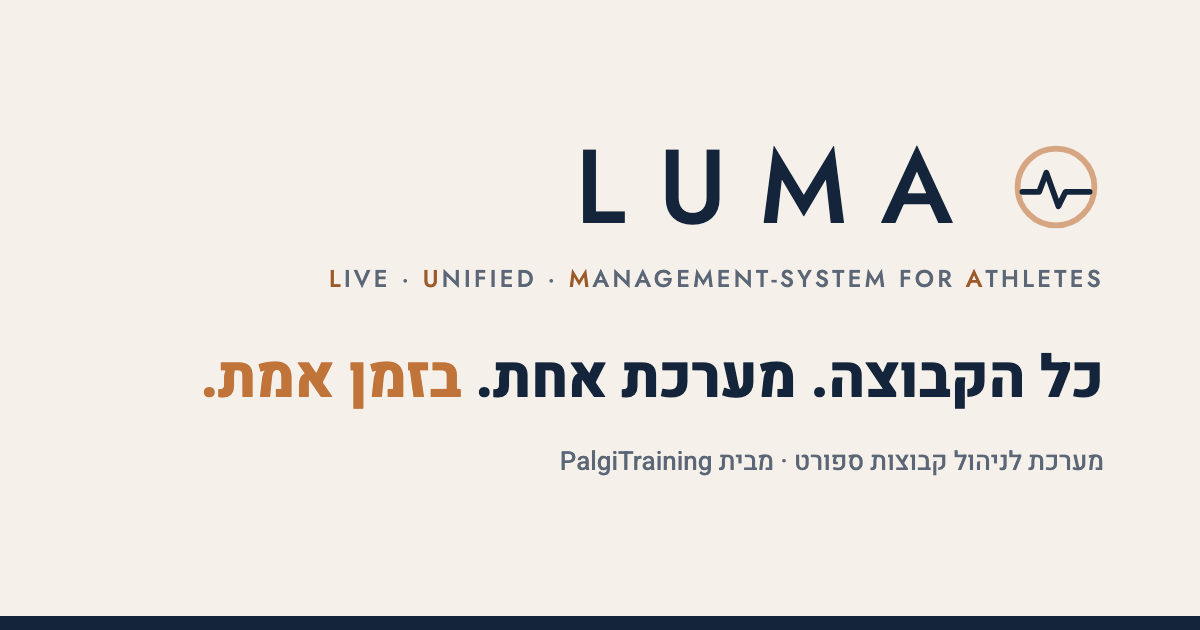
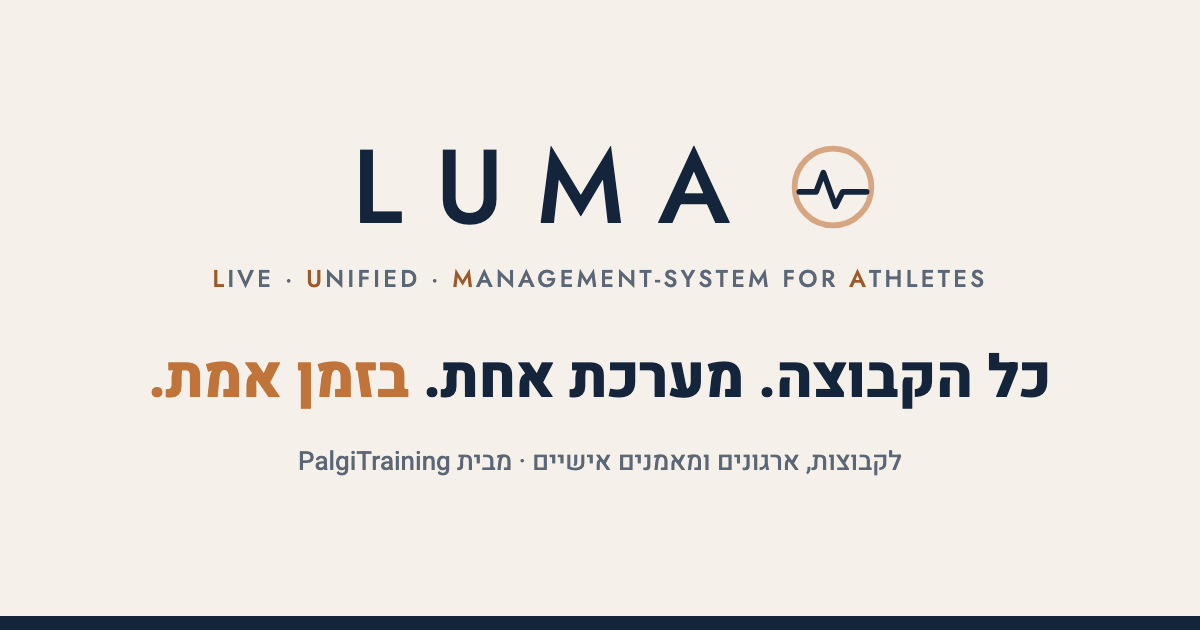
Polish: case stats, live hero feed, motion, nav, WhatsApp button, new share image
- Case study: national-team athletes, 30+ users / 11 staff / full support team, count-up
- Hero phone: a new update slides in every 4s while on screen
- Logo heartbeat draws on load; grid cards reveal in sequence
- Desktop topbar nav links; floating WhatsApp on phones (hidden at the form)
- og.png re-rendered centered, mentions personal coaches; cache-busted URL
- All motion off under prefers-reduced-motion

Claude-Session: https://claude.ai/code/session_01PnJvYenS1ZSLpZmYpDAsFA

diff --git a/style.css b/style.css
@@ -52,6 +52,15 @@ p { margin: 0; }
 /* topbar */
 .topbar { position: sticky; top: 0; z-index: 10; background: rgba(245, 241, 234, .92); backdrop-filter: blur(8px); -webkit-backdrop-filter: blur(8px); border-bottom: 1px solid var(--border); }
 .topbar-inner { display: flex; align-items: center; justify-content: space-between; min-height: 60px; }
+.topnav { display: none; }
+@media (min-width: 900px) {
+  .topnav { display: flex; gap: 28px; margin-inline-start: auto; margin-inline-end: 32px; }
+  .topnav a { text-decoration: none; font-size: 15px; font-weight: 500; color: var(--muted); transition: color .2s ease; }
+  .topnav a:hover, .topnav a:focus-visible { color: var(--navy); }
+}
+/* heartbeat line draws itself once on load */
+.mark-draw path { stroke-dasharray: 1; animation: mark-draw 1.4s .3s ease-out both; }
+@keyframes mark-draw { from { stroke-dashoffset: 1; } to { stroke-dashoffset: 0; } }
 
 /* hero */
 .hero { padding: 48px 0 56px; }
@@ -59,7 +68,7 @@ p { margin: 0; }
 @media (min-width: 900px) { .hero { padding: 88px 0 32px; } .hero-grid { gap: 64px; } }
 /* centered brand hero (2026-10-03, Roei): copy block centered, phone below it */
 .hero-copy { text-align: center; }
-.hero-copy .slogan, .hero-copy .lead { text-wrap: balance; }
+.hero-copy .lead { text-wrap: balance; }
 .hero-title { display: flex; flex-direction: column; align-items: center; gap: 14px; }
 .wordmark-xl { font-size: clamp(44px, 10vw, 76px); line-height: 1; }
 .acronym { font-size: 13px; letter-spacing: .14em; text-transform: uppercase; font-weight: 500; color: var(--muted); }
@@ -123,6 +132,11 @@ p { margin: 0; }
 .s-item { display: flex; align-items: center; gap: 8px; }
 .dot { width: 7px; height: 7px; border-radius: 50%; background: #C9BFAF; flex: none; }
 .dot-accent { background: var(--copper); }
+/* live feed in the hero phone: newest update slides in, its dot pulses */
+.s-new { animation: s-slide-in .6s ease-out; }
+.s-new .dot-accent { animation: s-pulse 1.6s ease-out 2; }
+@keyframes s-slide-in { from { opacity: 0; transform: translateY(-8px); } to { opacity: 1; transform: none; } }
+@keyframes s-pulse { 0% { box-shadow: 0 0 0 0 rgba(192, 116, 58, .55); } 100% { box-shadow: 0 0 0 7px rgba(192, 116, 58, 0); } }
 .s-nav { margin-top: auto; display: flex; justify-content: space-around; padding-top: 8px; border-top: 1px solid var(--border); }
 .s-nav i { width: 20px; height: 4px; border-radius: 2px; background: #D8CFC1; }
 .s-nav i.on { background: var(--navy); }
@@ -147,7 +161,13 @@ p { margin: 0; }
 
 /* case */
 .case { max-width: 760px; margin-inline: auto; text-align: center; border-top: 2px solid var(--copper); padding-top: 40px; }
-.case p:last-child { margin-top: 16px; font-size: 19px; color: var(--muted); }
+.case > p:not(.eyebrow) { margin-top: 16px; font-size: 19px; color: var(--muted); text-wrap: balance; }
+.stats { display: grid; grid-template-columns: repeat(3, 1fr); gap: 16px; margin: 40px 0 0; }
+.stat { background: var(--card); border: 1px solid var(--border); border-radius: var(--radius); padding: 22px 16px; }
+.stat-n { font-family: var(--font-brand); font-size: 46px; font-weight: 500; line-height: 1.1; color: var(--copper); }
+.stat-word { font-family: var(--font); font-size: 26px; font-weight: 800; line-height: 1.6; }
+.stat dd { margin: 6px 0 0; font-size: 15px; color: var(--muted); }
+@media (max-width: 560px) { .stats { grid-template-columns: 1fr; } }
 
 /* demo form */
 .demo-grid { display: grid; gap: 40px; }
@@ -191,6 +211,12 @@ input:focus, textarea:focus { outline: none; border-color: var(--navy); box-shad
 .footer-links a:hover { color: var(--chalk); text-decoration: underline; }
 .copyright { grid-column: 1 / -1; font-size: 14px; color: rgba(245, 241, 234, .55); border-top: 1px solid rgba(245, 241, 234, .12); padding-top: 20px; }
 
+/* floating WhatsApp, phones only; hidden while the demo form is on screen */
+.wa-float { position: fixed; left: 16px; bottom: calc(16px + env(safe-area-inset-bottom)); z-index: 20; width: 54px; height: 54px; border-radius: 50%; background: #25D366; display: none; align-items: center; justify-content: center; box-shadow: 0 8px 20px rgba(20, 36, 59, .25); transition: opacity .3s ease, transform .3s ease; }
+.wa-float svg { width: 30px; height: 30px; fill: #fff; }
+.wa-float.is-hidden { opacity: 0; transform: translateY(12px); pointer-events: none; }
+@media (max-width: 899px) { .wa-float { display: flex; } }
+
 /* reveal motion (enabled only when JS adds .js to <html>) */
 .js .reveal { opacity: 0; transform: translateY(16px); transition: opacity .7s ease, transform .7s ease; }
 .js .reveal.is-visible { opacity: 1; transform: none; }
@@ -199,4 +225,5 @@ input:focus, textarea:focus { outline: none; border-color: var(--navy); box-shad
   html { scroll-behavior: auto; }
   *, *::before, *::after { transition: none !important; animation: none !important; }
   .js .reveal { opacity: 1; transform: none; }
+  .mark-draw path { stroke-dasharray: none; stroke-dashoffset: 0; }
 }

diff --git a/index.html b/index.html
@@ -10,7 +10,7 @@
   <meta property="og:url" content="https://luma.palgitraining.com/">
   <meta property="og:title" content="LUMA — כל הקבוצה. מערכת אחת. בזמן אמת.">
   <meta property="og:description" content="מערכת לניהול קבוצות ספורט ומאמנים אישיים, מבית PalgiTraining.">
-  <meta property="og:image" content="https://luma.palgitraining.com/assets/og.png">
+  <meta property="og:image" content="https://luma.palgitraining.com/assets/og.png?v=2">
   <meta property="og:locale" content="he_IL">
   <link rel="icon" type="image/svg+xml" href="assets/mark.svg">
   <link rel="apple-touch-icon" href="assets/apple-touch-icon.png">
@@ -24,9 +24,14 @@
 <header class="topbar">
   <div class="wrap topbar-inner">
     <a href="#top" class="brand" aria-label="LUMA — לראש הדף">
-      <svg class="mark" viewBox="0 0 40 40" aria-hidden="true"><circle cx="20" cy="20" r="16"/><path d="M6 22h7l3-8 5 14 3-6h10"/></svg>
+      <svg class="mark mark-draw" viewBox="0 0 40 40" aria-hidden="true"><circle cx="20" cy="20" r="16"/><path pathLength="1" d="M6 22h7l3-8 5 14 3-6h10"/></svg>
       <span class="wordmark">LUMA</span>
     </a>
+    <nav class="topnav" aria-label="ניווט ראשי">
+      <a href="#pillars">איך זה עובד</a>
+      <a href="#features">יכולות</a>
+      <a href="#model">למי זה מתאים</a>
+    </nav>
     <a href="#demo" class="btn btn-primary btn-sm">בקשו הדגמה</a>
   </div>
 </header>
@@ -59,7 +64,7 @@
               <div class="s-row"><span class="s-time">16:00</span><span>אימון קבוצתי · אולם A</span></div>
               <div class="s-row"><span class="s-time">18:30</span><span>אימון כוח · חדר כושר</span></div>
             </div>
-            <div class="s-card">
+            <div class="s-card" id="s-feed">
               <div class="s-label">עדכונים אחרונים</div>
               <div class="s-item"><i class="dot dot-accent"></i>סיכום פגישה חדש — יואב כהן</div>
               <div class="s-item"><i class="dot"></i>תוכנית כוח עודכנה — נועה לוי</div>
@@ -230,7 +235,12 @@
       <div class="case reveal">
         <p class="eyebrow">פועלת היום</p>
         <h2>ענף הטיפוס באקדמיה של וינגייט</h2>
-        <p>LUMA נולדה בתוך הענף: מאמנים, מאמן כושר וצוות מקצועי שעובדים עם ספורטאי הישג, ומנהלים בה את הסיכומים, התוכניות ולוח האימונים — כל יום.</p>
+        <p>LUMA נולדה בתוך הענף ופועלת בו כל יום — עם ספורטאים וספורטאיות חברי נבחרת ישראל, ומעטפת מקצועית מלאה סביבם.</p>
+        <dl class="stats">
+          <div class="stat"><dt class="stat-n" dir="ltr"><span data-count="30">30</span>+</dt><dd>משתמשים</dd></div>
+          <div class="stat"><dt class="stat-n" data-count="11">11</dt><dd>אנשי צוות</dd></div>
+          <div class="stat"><dt class="stat-n stat-word">מעטפת מלאה</dt><dd>מאמנים, כושר, רפואה, פיזיו ותזונה</dd></div>
+        </dl>
       </div>
     </div>
   </section>
@@ -328,6 +338,10 @@
     <p class="copyright">© 2026 PalgiTraining. כל הזכויות שמורות.</p>
   </div>
 </footer>
+
+<a class="wa-float" href="https://wa.me/972507721477" target="_blank" rel="noopener" aria-label="שלחו הודעה בוואטסאפ">
+  <svg viewBox="0 0 24 24" aria-hidden="true"><path d="M12 2.5a9.5 9.5 0 0 0-8.2 14.3L2.5 21.5l4.8-1.3A9.5 9.5 0 1 0 12 2.5zm5.5 13.4c-.2.6-1.3 1.2-1.8 1.3-.5.1-1 .1-1.7-.1a15 15 0 0 1-1.6-.6c-2.7-1.2-4.5-3.9-4.7-4.1-.1-.2-1.1-1.5-1.1-2.9s.7-2 1-2.3c.2-.3.5-.3.7-.3h.5c.2 0 .4 0 .6.5l.8 2c.1.1.1.3 0 .5l-.3.5-.4.4c-.1.1-.3.3-.1.6.2.3.7 1.2 1.6 1.9 1.1 1 2 1.3 2.3 1.4.3.1.5.1.6-.1l.9-1c.2-.3.4-.2.6-.1l1.9.9c.3.1.5.2.5.3.1.1.1.7-.2 1.3z"/></svg>
+</a>
 
 <script src="config.js"></script>
 <script src="formLogic.js"></script>

diff --git a/app.js b/app.js
@@ -16,7 +16,74 @@
         }
       });
     }, { rootMargin: '0px 0px -8% 0px', threshold: 0.08 });
+    // cards in a grid appear one after another; the delay is dropped once shown so hover stays snappy
+    document.querySelectorAll('.pillars, .features, .steps').forEach(function (group) {
+      Array.prototype.forEach.call(group.querySelectorAll('.reveal'), function (el, i) {
+        el.style.transitionDelay = (i * 90) + 'ms';
+        el.addEventListener('transitionend', function () { el.style.transitionDelay = ''; }, { once: true });
+      });
+    });
     reveals.forEach(function (el) { io.observe(el); });
+  }
+
+  // ---- count-up stats ----
+  var counters = document.querySelectorAll('[data-count]');
+  if (!reduce && 'IntersectionObserver' in window) {
+    var countIo = new IntersectionObserver(function (entries) {
+      entries.forEach(function (entry) {
+        if (!entry.isIntersecting) return;
+        countIo.unobserve(entry.target);
+        var el = entry.target, target = +el.getAttribute('data-count'), start = null;
+        function tick(t) {
+          if (start === null) start = t;
+          var p = Math.min((t - start) / 1200, 1);
+          el.textContent = Math.round(target * (1 - Math.pow(1 - p, 3)));
+          if (p < 1) requestAnimationFrame(tick);
+        }
+        el.textContent = '0';
+        requestAnimationFrame(tick);
+        setTimeout(function () { el.textContent = target; }, 1500); // final value even if frames stall
+      });
+    }, { threshold: 0.6 });
+    counters.forEach(function (el) { countIo.observe(el); });
+  }
+
+  // ---- live feed in the hero phone ("בזמן אמת") ----
+  var feed = document.getElementById('s-feed');
+  if (feed && !reduce && 'IntersectionObserver' in window) {
+    var updates = [
+      'סיכום פגישה חדש — נועה לוי',
+      'אימון כוח הושלם — עידו שגב',
+      'שינוי שעה — אימון קבוצתי 17:30',
+      'הערת פיזיו — יואב כהן',
+      'תחרות נוספה ללוח — גביע המדינה'
+    ];
+    var next = 0, timer = null;
+    function pushUpdate() {
+      var items = feed.querySelectorAll('.s-item');
+      items.forEach(function (it) { var d = it.querySelector('.dot'); if (d) d.classList.remove('dot-accent'); it.classList.remove('s-new'); });
+      if (items.length >= 3) items[items.length - 1].remove();
+      var item = document.createElement('div');
+      item.className = 's-item s-new';
+      item.innerHTML = '<i class="dot dot-accent"></i>';
+      item.appendChild(document.createTextNode(updates[next]));
+      next = (next + 1) % updates.length;
+      feed.insertBefore(item, feed.querySelector('.s-item'));
+    }
+    new IntersectionObserver(function (entries) {
+      var visible = entries[0].isIntersecting;
+      if (visible && !timer) timer = setInterval(function () { if (!document.hidden) pushUpdate(); }, 4000);
+      if (!visible && timer) { clearInterval(timer); timer = null; }
+    }).observe(feed);
+  }
+
+  // ---- floating WhatsApp hides while the demo form is on screen ----
+  var wa = document.querySelector('.wa-float');
+  var demo = document.getElementById('demo');
+  if (wa && demo && 'IntersectionObserver' in window) {
+    new IntersectionObserver(function (entries) {
+      wa.classList.toggle('is-hidden', entries[0].isIntersecting);
+    }, { threshold: 0.15 }).observe(demo);
   }
 
   // ---- lead form ----

diff --git a/assets/og.html b/assets/og.html
@@ -5,10 +5,10 @@
 <link href="https://fonts.googleapis.com/css2?family=Heebo:wght@500;800&family=Jost:wght@500&display=swap" rel="stylesheet">
 <style>
   html, body { margin: 0; width: 1200px; height: 630px; background: #F5F1EA; color: #14243B; font-family: 'Heebo', sans-serif; }
-  .wrap { box-sizing: border-box; height: 100%; padding: 80px 96px; display: flex; flex-direction: column; justify-content: center; gap: 22px; border-bottom: 14px solid #14243B; }
-  .brand { display: flex; align-items: center; gap: 22px; direction: ltr; justify-content: flex-end; }
-  .wm { font-family: 'Jost', sans-serif; font-weight: 500; font-size: 104px; letter-spacing: .32em; line-height: 1; }
-  .acr { font-family: 'Jost', sans-serif; direction: ltr; text-align: right; font-size: 24px; letter-spacing: .14em; text-transform: uppercase; color: #5B6676; }
+  .wrap { box-sizing: border-box; height: 100%; padding: 80px 96px; display: flex; flex-direction: column; justify-content: center; align-items: center; text-align: center; gap: 22px; border-bottom: 14px solid #14243B; }
+  .brand { display: flex; align-items: center; gap: 22px; direction: ltr; justify-content: center; }
+  .wm { font-family: 'Jost', sans-serif; font-weight: 500; font-size: 104px; letter-spacing: .32em; padding-left: .32em; line-height: 1; }
+  .acr { font-family: 'Jost', sans-serif; direction: ltr; text-align: center; font-size: 24px; letter-spacing: .14em; text-transform: uppercase; color: #5B6676; }
   .acr b { color: #9C5A2A; font-weight: 500; }
   .slogan { font-size: 58px; font-weight: 800; margin-top: 18px; }
   .slogan em { font-style: normal; color: #C0743A; }
@@ -23,7 +23,7 @@
     </div>
     <div class="acr"><b>L</b>ive · <b>U</b>nified · <b>M</b>anagement-system for <b>A</b>thletes</div>
     <div class="slogan">כל הקבוצה. מערכת אחת. <em>בזמן אמת.</em></div>
-    <div class="by">מערכת לניהול קבוצות ספורט · מבית PalgiTraining</div>
+    <div class="by">לקבוצות, ארגונים ומאמנים אישיים · מבית PalgiTraining</div>
   </div>
 </body>
 </html>
